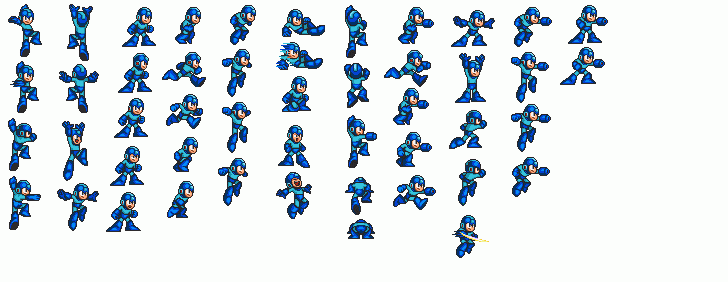
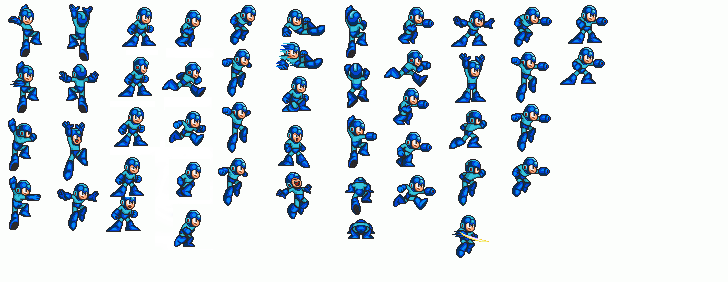
megamonsieur animation

Changed region(s): [[0.1511, 0.0284, 0.3022, 0.8794]]

diff --git a/integration/template/selector-target -top.html b/integration/template/selector-target -top.html
@@ -1,0 +1,82 @@
+<!DOCTYPE HTML>
+<html lang="fr">
+<head>
+	<meta charset="UTF-8">
+	<title>Je suis caché !</title>
+	<style type="text/css">
+	
+		body {
+			margin:0; padding:10px 40px; 
+			background:#fff;
+			font-size: 1.4em;
+			font-family:arial, serif;
+			height: 3000px; /* test fixed + scroll */
+		}
+/* code du tutoriel ci-dessous */
+		#volet {
+			width: 250px;
+			padding: 10px;
+			background: #6B9A49; color: #fff;	
+		}		
+
+		#volet a.ouvrir,
+		#volet a.fermer {
+			padding: 10px 25px;
+			background: #555;
+			color: #fff;
+			text-decoration: none;
+		}
+		#volet {
+			position: absolute;
+			left: -270px;  /* test fixed + scroll, on retire la position top */
+			-webkit-transition: all .5s ease-in;
+			-moz-transition: all .5s ease-in;
+			transition: all .5s ease-in;
+		}
+
+		#volet a.ouvrir,
+		#volet a.fermer {
+			position: absolute;
+			right: -88px;
+			top: 150px;
+			-webkit-transform: rotate(270deg);
+			-moz-transform: rotate(270deg);
+			-o-transform: rotate(270deg);
+			-ms-transform: rotate(270deg);
+			-moz-radius: 0 0 8px 8px;
+			border-radius: 0 0 8px 8px;
+		}
+
+		#volet a.fermer {
+			display: none;
+		}
+		#volet:target {
+			left: 10px;
+		}
+		/* code pour la fermeture */
+		#volet:target a.fermer {
+			display: block;
+		}
+		#volet:target a.ouvrir {
+			display: none;
+		}
+		#volet_clos:target #volet {
+			left: -270px;
+		}
+		 /* test fixed + scroll */
+		#volet_clos {
+			position: fixed; 
+			top: 55px; left: 0;
+		}
+	</style>
+</head>
+<body>
+	<div id="volet_clos">
+		<div id="volet">
+			<p>Lorem Elsass ipsum réchime amet sed bissame so libero. Lorem Elsass ipsum réchime amet sed bissame so libero.  Lorem Elsass ipsum réchime amet sed bissame so libero. </p>
+			<a href="#volet" class="ouvrir">Ouvrir !</a>
+			<a href="#volet_clos" class="fermer">fermer !</a>
+		</div>
+	</div>
+</body>
+</html>

diff --git a/integration/template/sprite-mega-monsieur.html b/integration/template/sprite-mega-monsieur.html
@@ -18,22 +18,23 @@
 
     .mega-monsieur {
         margin: auto;
-        width: 45px;
-        height: 45px;
+        width: 50px;
+        height: 50px;
         background-image: url("images/megaman7.png");
         background-repeat: no-repeat;
-        background-position: -162px -180px;
+        background-position: -162px -200px;
     }
 
     @keyframes play {
         100% {
-            background-position: -162px 0;
+            background-position: -162px 50px;
         }
     }
 
     .mega-monsieur {
-        animation: play .5s steps(4) infinite;
-        
+        /*transform:scale(6);*/
+        animation: play .8s steps(5) infinite;
+
     }
 
 </style>
